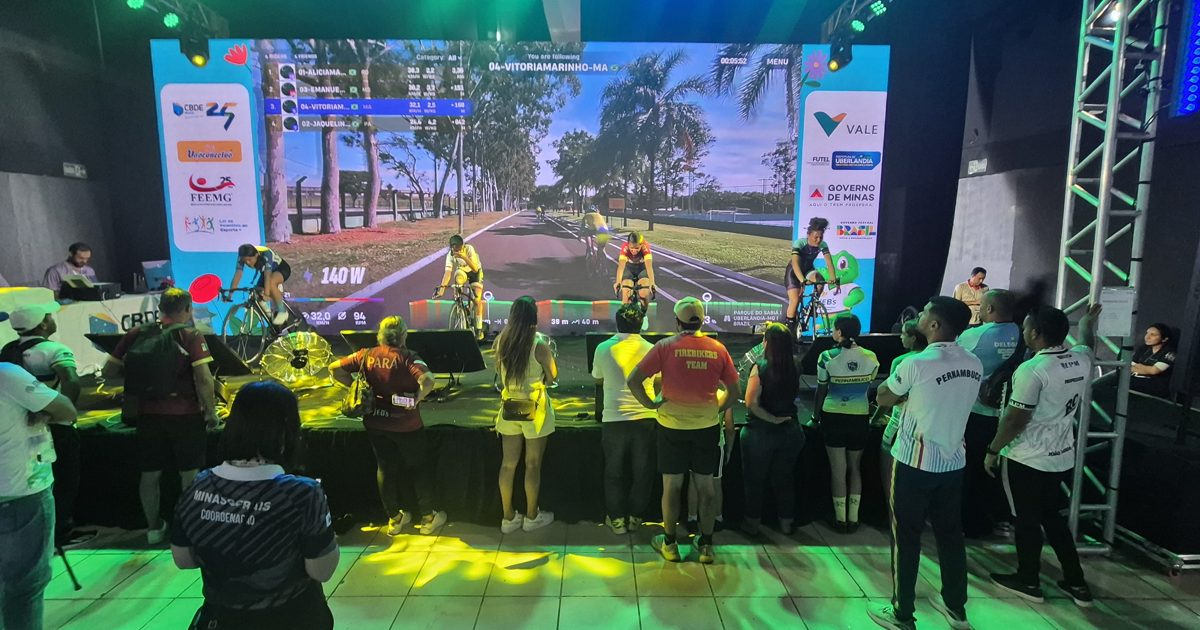
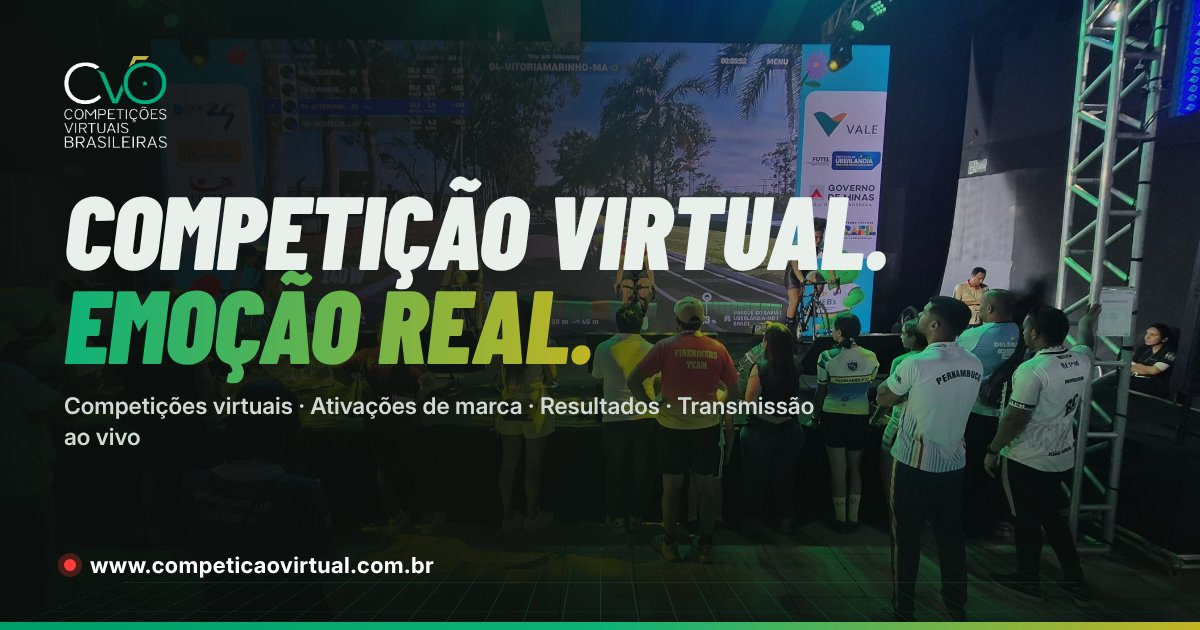
Prévia de compartilhamento (WhatsApp/redes) com imagem 1200x630 em 4 idiomas
Claude-Session: https://claude.ai/code/session_01VNxTQDbowMRPUafjCd7Lx6

diff --git a/fr/index.html b/fr/index.html
@@ -7,7 +7,21 @@
 <meta name="description" content="Compétitions virtuelles de cyclisme, aviron, course à pied et triathlon, activations de marque en présentiel, systèmes de résultats et diffusion en direct.">
 <meta property="og:title" content="CVB · Compétitions Virtuelles Brésiliennes">
 <meta property="og:description" content="Compétition virtuelle. Émotion réelle. Compétitions virtuelles et activations de marque avec simulateurs, écran géant et public en direct.">
-<meta property="og:image" content="https://www.competicaovirtual.com.br/assets/media/og-capa.jpg">
+<link rel="canonical" href="https://www.competicaovirtual.com.br/fr/">
+<meta property="og:type" content="website">
+<meta property="og:site_name" content="CVB · Compétitions Virtuelles Brésiliennes">
+<meta property="og:locale" content="fr_FR">
+<meta property="og:url" content="https://www.competicaovirtual.com.br/fr/">
+<meta property="og:image" content="http://www.competicaovirtual.com.br/assets/media/og-capa-fr.jpg">
+<meta property="og:image:secure_url" content="https://www.competicaovirtual.com.br/assets/media/og-capa-fr.jpg">
+<meta property="og:image:type" content="image/jpeg">
+<meta property="og:image:width" content="1200">
+<meta property="og:image:height" content="630">
+<meta property="og:image:alt" content="Compétition virtuelle. Émotion réelle. Arène de cyclisme virtuel avec écran géant et public.">
+<meta name="twitter:card" content="summary_large_image">
+<meta name="twitter:title" content="CVB · Compétitions Virtuelles Brésiliennes">
+<meta name="twitter:description" content="Compétition virtuelle. Émotion réelle. Compétitions virtuelles et activations de marque avec simulateurs, écran géant et public en direct.">
+<meta name="twitter:image" content="https://www.competicaovirtual.com.br/assets/media/og-capa-fr.jpg">
 <link rel="alternate" hreflang="pt-BR" href="https://www.competicaovirtual.com.br/">
 <link rel="alternate" hreflang="en" href="https://www.competicaovirtual.com.br/en/">
 <link rel="alternate" hreflang="es" href="https://www.competicaovirtual.com.br/es/">

diff --git a/es/index.html b/es/index.html
@@ -7,7 +7,21 @@
 <meta name="description" content="Competiciones virtuales de ciclismo, remo, running y triatlón, activaciones de marca presenciales, sistemas de resultados y transmisión en vivo.">
 <meta property="og:title" content="CVB · Competiciones Virtuales Brasileñas">
 <meta property="og:description" content="Competición virtual. Emoción real. Competiciones virtuales y activaciones de marca con simuladores, pantalla gigante y público en vivo.">
-<meta property="og:image" content="https://www.competicaovirtual.com.br/assets/media/og-capa.jpg">
+<link rel="canonical" href="https://www.competicaovirtual.com.br/es/">
+<meta property="og:type" content="website">
+<meta property="og:site_name" content="CVB · Competiciones Virtuales Brasileñas">
+<meta property="og:locale" content="es_ES">
+<meta property="og:url" content="https://www.competicaovirtual.com.br/es/">
+<meta property="og:image" content="http://www.competicaovirtual.com.br/assets/media/og-capa-es.jpg">
+<meta property="og:image:secure_url" content="https://www.competicaovirtual.com.br/assets/media/og-capa-es.jpg">
+<meta property="og:image:type" content="image/jpeg">
+<meta property="og:image:width" content="1200">
+<meta property="og:image:height" content="630">
+<meta property="og:image:alt" content="Competición virtual. Emoción real. Arena de ciclismo virtual con pantalla gigante y público.">
+<meta name="twitter:card" content="summary_large_image">
+<meta name="twitter:title" content="CVB · Competiciones Virtuales Brasileñas">
+<meta name="twitter:description" content="Competición virtual. Emoción real. Competiciones virtuales y activaciones de marca con simuladores, pantalla gigante y público en vivo.">
+<meta name="twitter:image" content="https://www.competicaovirtual.com.br/assets/media/og-capa-es.jpg">
 <link rel="alternate" hreflang="pt-BR" href="https://www.competicaovirtual.com.br/">
 <link rel="alternate" hreflang="en" href="https://www.competicaovirtual.com.br/en/">
 <link rel="alternate" hreflang="es" href="https://www.competicaovirtual.com.br/es/">

diff --git a/index.html b/index.html
@@ -7,7 +7,21 @@
 <meta name="description" content="Competições virtuais de ciclismo, remo, corrida e triathlon, ações de marketing presencial, sistemas de resultados e transmissão ao vivo.">
 <meta property="og:title" content="CVB · Competições Virtuais Brasileiras">
 <meta property="og:description" content="Competição virtual. Emoção real. Competições virtuais e ativações de marca com simuladores, telão e público ao vivo.">
-<meta property="og:image" content="https://www.competicaovirtual.com.br/assets/media/og-capa.jpg">
+<link rel="canonical" href="https://www.competicaovirtual.com.br/">
+<meta property="og:type" content="website">
+<meta property="og:site_name" content="CVB · Competições Virtuais Brasileiras">
+<meta property="og:locale" content="pt_BR">
+<meta property="og:url" content="https://www.competicaovirtual.com.br/">
+<meta property="og:image" content="http://www.competicaovirtual.com.br/assets/media/og-capa.jpg">
+<meta property="og:image:secure_url" content="https://www.competicaovirtual.com.br/assets/media/og-capa.jpg">
+<meta property="og:image:type" content="image/jpeg">
+<meta property="og:image:width" content="1200">
+<meta property="og:image:height" content="630">
+<meta property="og:image:alt" content="Competição virtual. Emoção real. Arena de ciclismo virtual com telão e público.">
+<meta name="twitter:card" content="summary_large_image">
+<meta name="twitter:title" content="CVB · Competições Virtuais Brasileiras">
+<meta name="twitter:description" content="Competição virtual. Emoção real. Competições virtuais e ativações de marca com simuladores, telão e público ao vivo.">
+<meta name="twitter:image" content="https://www.competicaovirtual.com.br/assets/media/og-capa.jpg">
 <link rel="alternate" hreflang="pt-BR" href="https://www.competicaovirtual.com.br/">
 <link rel="alternate" hreflang="en" href="https://www.competicaovirtual.com.br/en/">
 <link rel="alternate" hreflang="es" href="https://www.competicaovirtual.com.br/es/">

diff --git a/en/index.html b/en/index.html
@@ -7,7 +7,21 @@
 <meta name="description" content="Virtual cycling, rowing, running and triathlon competitions, live brand activations, results systems and live streaming.">
 <meta property="og:title" content="CVB · Brazilian Virtual Competitions">
 <meta property="og:description" content="Virtual competition. Real emotion. Virtual competitions and brand activations with simulators, giant screens and a live crowd.">
-<meta property="og:image" content="https://www.competicaovirtual.com.br/assets/media/og-capa.jpg">
+<link rel="canonical" href="https://www.competicaovirtual.com.br/en/">
+<meta property="og:type" content="website">
+<meta property="og:site_name" content="CVB · Brazilian Virtual Competitions">
+<meta property="og:locale" content="en_US">
+<meta property="og:url" content="https://www.competicaovirtual.com.br/en/">
+<meta property="og:image" content="http://www.competicaovirtual.com.br/assets/media/og-capa-en.jpg">
+<meta property="og:image:secure_url" content="https://www.competicaovirtual.com.br/assets/media/og-capa-en.jpg">
+<meta property="og:image:type" content="image/jpeg">
+<meta property="og:image:width" content="1200">
+<meta property="og:image:height" content="630">
+<meta property="og:image:alt" content="Virtual competition. Real emotion. Virtual cycling arena with giant screen and crowd.">
+<meta name="twitter:card" content="summary_large_image">
+<meta name="twitter:title" content="CVB · Brazilian Virtual Competitions">
+<meta name="twitter:description" content="Virtual competition. Real emotion. Virtual competitions and brand activations with simulators, giant screens and a live crowd.">
+<meta name="twitter:image" content="https://www.competicaovirtual.com.br/assets/media/og-capa-en.jpg">
 <link rel="alternate" hreflang="pt-BR" href="https://www.competicaovirtual.com.br/">
 <link rel="alternate" hreflang="en" href="https://www.competicaovirtual.com.br/en/">
 <link rel="alternate" hreflang="es" href="https://www.competicaovirtual.com.br/es/">

diff --git a/tools/build_i18n.py b/tools/build_i18n.py
@@ -15,7 +15,7 @@ ROOT = Path(__file__).resolve().parent.parent
 LANGS = {"en": 0, "es": 1, "fr": 2}
 HTML_LANG = {"en": "en", "es": "es", "fr": "fr"}
 ATTRS = ("alt", "aria-label", "placeholder", "content", "data-title", "title", "value")
-IGNORE = re.compile(r"^[\d\W_]+$|^(CVB|ROUVY|EXR|Zwift|Multi|Probiótica|JEBs Brasília|ROUVY × IRONMAN|L'Étape Brasil × Santander|GP Brasil CVB · Tour Parque da Cidade|Virtual L'Étape Brasil by Tour de France presented by Santander|#0A0F0D|PT|EN|ES|FR|Idioma)$")
+IGNORE = re.compile(r"^[\d\W_]+$|^(CVB|ROUVY|EXR|Zwift|Multi|Probiótica|JEBs Brasília|ROUVY × IRONMAN|L'Étape Brasil × Santander|GP Brasil CVB · Tour Parque da Cidade|Virtual L'Étape Brasil by Tour de France presented by Santander|#0A0F0D|PT|EN|ES|FR|Idioma|image/jpeg|pt_BR|summary_large_image|website)$")
 
 
 def build(lang):
@@ -54,6 +54,12 @@ def build(lang):
         target = "./" if other == lang else "../%s/" % other
         h = h.replace('href="%s/" data-lang="%s"' % (other, other), 'href="%s" data-lang="%s"' % (target, other))
     h = h.replace('<script src="../assets/js/main.js">', '<script src="../assets/js/main.js">')
+
+    # compartilhamento (WhatsApp, redes): imagem, endereço e idioma de cada versão
+    h = h.replace("assets/media/og-capa.jpg", "assets/media/og-capa-%s.jpg" % lang)
+    h = h.replace('content="https://www.competicaovirtual.com.br/">', 'content="https://www.competicaovirtual.com.br/%s/">' % lang)
+    h = h.replace('rel="canonical" href="https://www.competicaovirtual.com.br/"', 'rel="canonical" href="https://www.competicaovirtual.com.br/%s/"' % lang)
+    h = h.replace('content="pt_BR"', 'content="%s"' % {"en": "en_US", "es": "es_ES", "fr": "fr_FR"}[lang])
 
     d = ROOT / lang
     d.mkdir(exist_ok=True)

diff --git a/tools/i18n.py b/tools/i18n.py
@@ -13,6 +13,7 @@ T = {
   ("Virtual competition. Real emotion. Virtual competitions and brand activations with simulators, giant screens and a live crowd.",
    "Competición virtual. Emoción real. Competiciones virtuales y activaciones de marca con simuladores, pantalla gigante y público en vivo.",
    "Compétition virtuelle. Émotion réelle. Compétitions virtuelles et activations de marque avec simulateurs, écran géant et public en direct."),
+"Competição virtual. Emoção real. Arena de ciclismo virtual com telão e público.": ("Virtual competition. Real emotion. Virtual cycling arena with giant screen and crowd.", "Competición virtual. Emoción real. Arena de ciclismo virtual con pantalla gigante y público.", "Compétition virtuelle. Émotion réelle. Arène de cyclisme virtuel avec écran géant et public."),
 "CVB · início": ("CVB · home", "CVB · inicio", "CVB · accueil"),
 "Competições": ("Brazilian", "Competiciones", "Compétitions"),
 "Virtuais Brasileiras": ("Virtual Competitions", "Virtuales Brasileñas", "Virtuelles Brésiliennes"),
